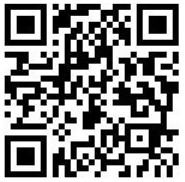
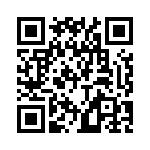
Add summer camp info

diff --git a/html/cn/index.html b/html/cn/index.html
@@ -84,16 +84,12 @@
               </p>
               
               <div class="block-image">
-                <img src="../../images/photo/Team1.jpg" alt="Team photo">
+                <img src="../../images/photo/Team2023.jpg" alt="Team photo">
               </div>
               
               <hr/>
-<!--              <h3 align="middle"><font color="FF0000">【New】</font>北航REMEX实验室2022年夏令营活动已结束，未能参加的同学可以单独联系意向导师</h3>-->
-                <h3 align="middle">热忱欢迎全国高校优秀大学生到北航REMEX实验室继续深造！</h3>
-<!--              <div class="camp-new">-->
-<!--                  &#12288;&#12288;为进一步扩大宣传，增进师生交流，为2022年接收推免生选拔优秀生源并吸引优秀应届本科毕业生报考，特组织本次活动，热忱欢迎全国高校优秀大学生到北航REMEX实验室继续深造！-->
-<!--              </div>-->
-<!--                为进一步扩大宣传，增进师生交流，为2022年接收推免生选拔优秀生源并吸引优秀应届本科毕业生报考，特组织本次活动，热忱欢迎全国高校优秀大学生到北航REMEX实验室继续深造！-->
+              <h3 align="middle"><font color="FF0000">【New】</font>北航REMEX实验室2023年夏令营活动公告</h3>
+                  为进一步扩大宣传，增进师生交流，为2023年接收推免生选拔优秀生源并吸引优秀应届本科毕业生报考，特组织本次活动，热忱欢迎全国高校优秀大学生到北航REMEX实验室继续深造！
               <h4 align="left">学生要求</h4>
                 <div class="camp-new">
                   1. “双一流”、“985”或“211”重点高校信息类及相关专业本科三年级在校生，有突出成果或特殊专业特长的其他高校本科三年级在校生。<br \>
@@ -101,30 +97,28 @@
                   3. 对图像处理、模式识别、计算机视觉、机器学习等人工智能相关科学研究有浓厚兴趣，有较强科研潜力。<br \>
                   4. 外语水平良好。<br \>
                   5. 身心健康。   <br \>
-                    <h5>北航REMEX实验室2022年夏令营活动已结束，未能参加的同学可以单独联系意向导师。</h5>
                 </div>
-<!--              <h4 align="left">二、申请材料及提交方式</h4>-->
-<!--                <div class="camp-new">-->
-<!--                    1. 填写报名问卷：<a href="https://www.wjx.cn/vm/ex9mdOo.aspx">https://www.wjx.cn/vm/ex9mdOo.aspx</a>-->
-<!--                    <div class="block-image">-->
-<!--                        <img src="../../images/material/qc.jpg" alt="Team photo">-->
-<!--                    </div>-->
-<!--                    2. 结合本人实际情况，将个人简历、个人陈述、成绩单、相关证明材料（如学习或科研类主要的获奖证书、发表的研究论文首页、英语六级证书等）等合成为一份“姓名+本科学校.pdf”文件，以“夏令营报名+姓名+本科学校”为主题，发送邮件至buaazhp@126.com或其他意向导师邮箱。-->
-<!--                </div>-->
-<!--              <h4 align="left">三、活动内容及时间安排</h4>-->
-<!--                <div class="camp-new">-->
-<!--                    1. 报名截止日期：2022年7月20日（暂定），报名结果单独通知。<br \>-->
-<!--                    2. 线上活动时间：2022年7月下旬（具体时间另行通知）。<br \>-->
-<!--                    3. 活动内容：实验室研究方向介绍、师生交流等。<br \>-->
-<!--                </div>-->
-<!--              <h4 align="left">四、说明</h4>-->
-<!--                <div class="camp-new">-->
-<!--                    1. 本活动非官方活动，为REMEX实验室组织的师生交流活动，仅限意向导师为本实验室成员的学生参加，为加深师生相互了解提供平台。<br \>-->
-<!--                    2. 学生须通过宇航学院研究生推免招生或统考招生方能获得北航录取资格。<br \>-->
-<!--                    3. REMEX实验室主页：<a href="https://remex-lab.github.io/index.html">https://remex-lab.github.io/index.html</a><br \>-->
-<!--                </div>-->
-<!--                -->
-<!--              <hr/>-->
+             <h4 align="left">二、申请材料及提交方式</h4>
+               <div class="camp-new">
+                   1. 填写报名问卷：<a href="https://www.wjx.cn/vm/rX9vVyg.aspx">https://www.wjx.cn/vm/rX9vVyg.aspx</a>
+                   <div class="block-image">
+                       <img src="../../images/material/qc.jpg" alt="Team photo">
+                   </div>
+                   2. 结合本人实际情况，将个人简历、个人陈述、成绩单、相关证明材料（如学习或科研类主要的获奖证书、发表的研究论文首页、英语六级证书等）等合成为一份“姓名+本科学校.pdf”文件，以“夏令营报名+姓名+本科学校”为主题，发送邮件至buaazhp@126.com或其他意向导师邮箱。
+               </div>
+             <h4 align="left">三、活动内容及时间安排</h4>
+               <div class="camp-new">
+                   1. 报名截止日期：2023年6月30日（暂定），报名结果单独通知。<br \>
+                   2. 线上活动时间：2023年7月上旬（具体时间另行通知）。<br \>
+                   3. 活动内容：实验室研究方向介绍、师生交流等。<br \>
+               </div>
+             <h4 align="left">四、说明</h4>
+               <div class="camp-new">
+                   1. 本活动非官方活动，为REMEX实验室组织的师生交流活动，仅限意向导师为本实验室成员的学生参加，为加深师生相互了解提供平台。<br \>
+                   2. 学生须通过宇航学院研究生推免招生或统考招生方能获得北航录取资格。<br \>
+                   3. REMEX实验室主页：<a href="https://remex-lab.github.io/index.html">https://remex-lab.github.io/index.html</a><br \>
+               </div>
+              
               <h3 align="left">近期发表</h3><br />
               <div class="block-text">
               <table><tbody>

diff --git a/index.html b/index.html
@@ -80,10 +80,10 @@
               </p>
               
               <div class="block-image">
-                <img src="images/photo/Team1.jpg" alt="Team photo">
+                <img src="images/photo/Team2023.jpg" alt="Team photo">
               </div>
-<!--              <hr/>-->
-<!--              <h3 align="middle"> <font color="FF0000">【New】</font><a href="html\cn\index.html">REMEX Lab summer Camp 暑期夏令营 2022 </a></h3>-->
+             <hr/>
+             <h3 align="middle"> <font color="FF0000">【New】</font><a href="html\cn\index.html">REMEX Lab summer Camp 暑期夏令营 2023 </a></h3>
               <hr/>
               <h3 align="left">Recently Published</h3><br />
               <div class="block-text">
